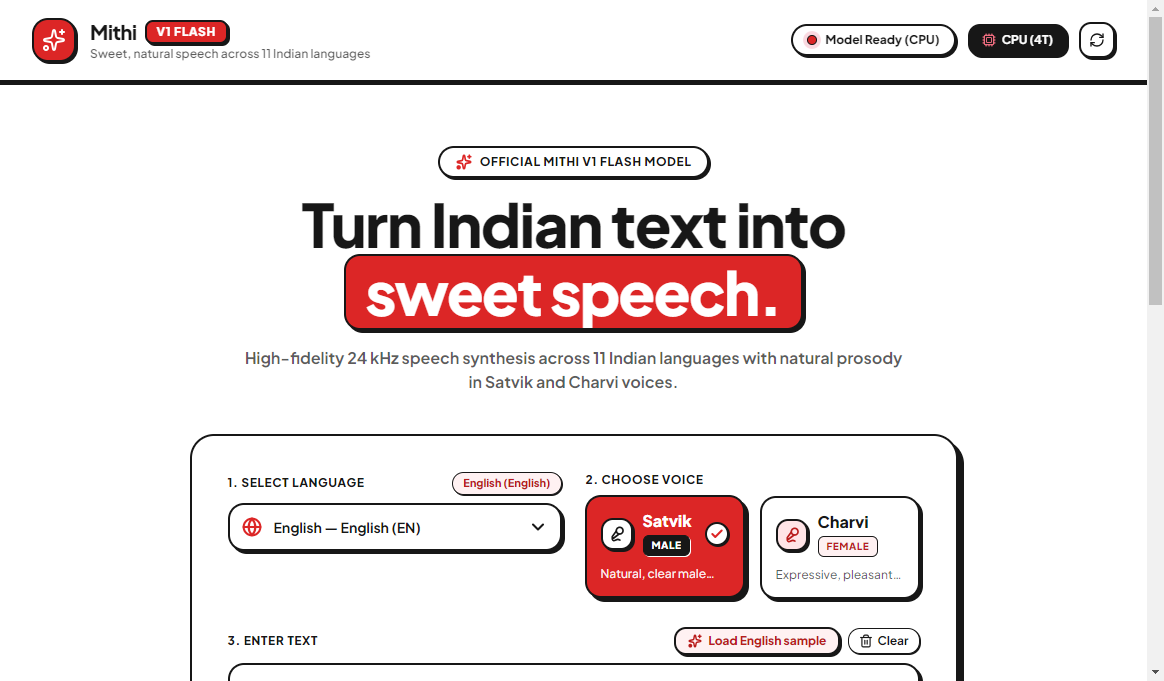
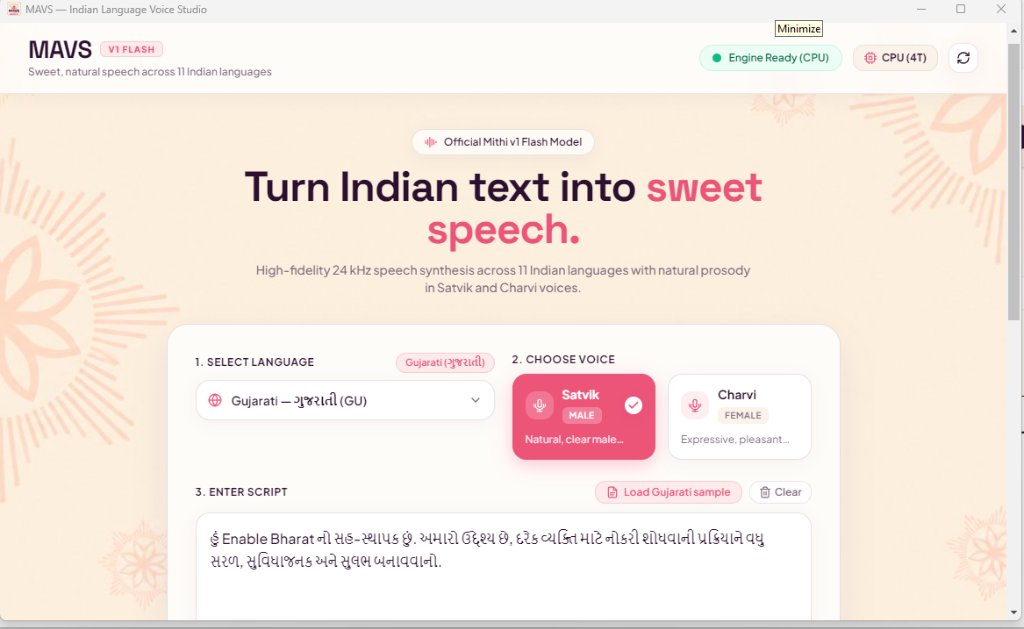
feat: replace studio preview with genuine new MAVS UI screenshot

diff --git a/src/data/tutorialSteps.ts b/src/data/tutorialSteps.ts
@@ -118,7 +118,7 @@ export const TUTORIAL_STEPS: TutorialStep[] = [
     keyAction: 'Paste or write script into the central text canvas.',
     uiElements: ['Textarea Prompt Canvas', 'Live Character Counter (0 / 100,000)', 'Clear Text Action'],
     screenshot: '/assets/verified_generation_screenshot.png',
-    alt: 'MAVS text canvas showing entered Marathi script with live character count',
+    alt: 'MAVS text canvas showing entered Gujarati script with live character count',
     caption: 'Central prompt canvas accepting up to 100,000 characters in native Indian scripts.',
     captureStatus: 'live_capture',
     category: 'studio'

diff --git a/src/components/explore/ExploreHero.tsx b/src/components/explore/ExploreHero.tsx
@@ -145,7 +145,7 @@ export const ExploreHero: React.FC = () => {
                   }
                   alt={
                     activeView === 'generation'
-                      ? 'Actual MAVS application running speech generation in Marathi with waveform audio player'
+                      ? 'Actual MAVS application running speech generation in Gujarati with Satvik voice and floral motif UI'
                       : 'Actual MAVS desktop workspace overview running natively on Windows'
                   }
                   className="w-full h-auto object-contain max-h-[600px] select-none"
